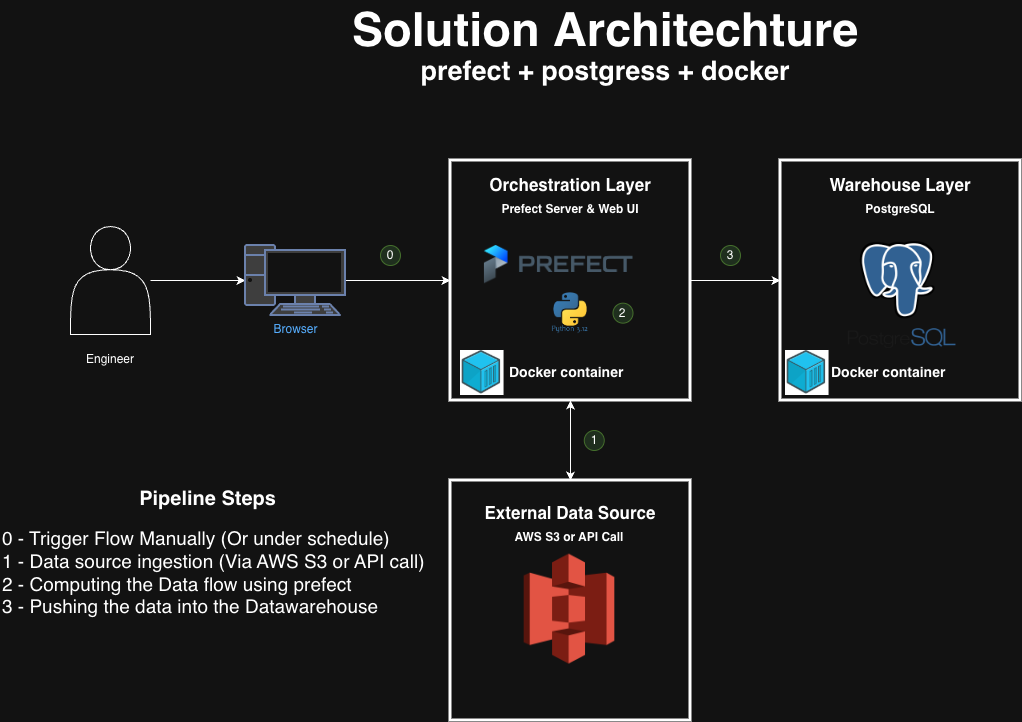
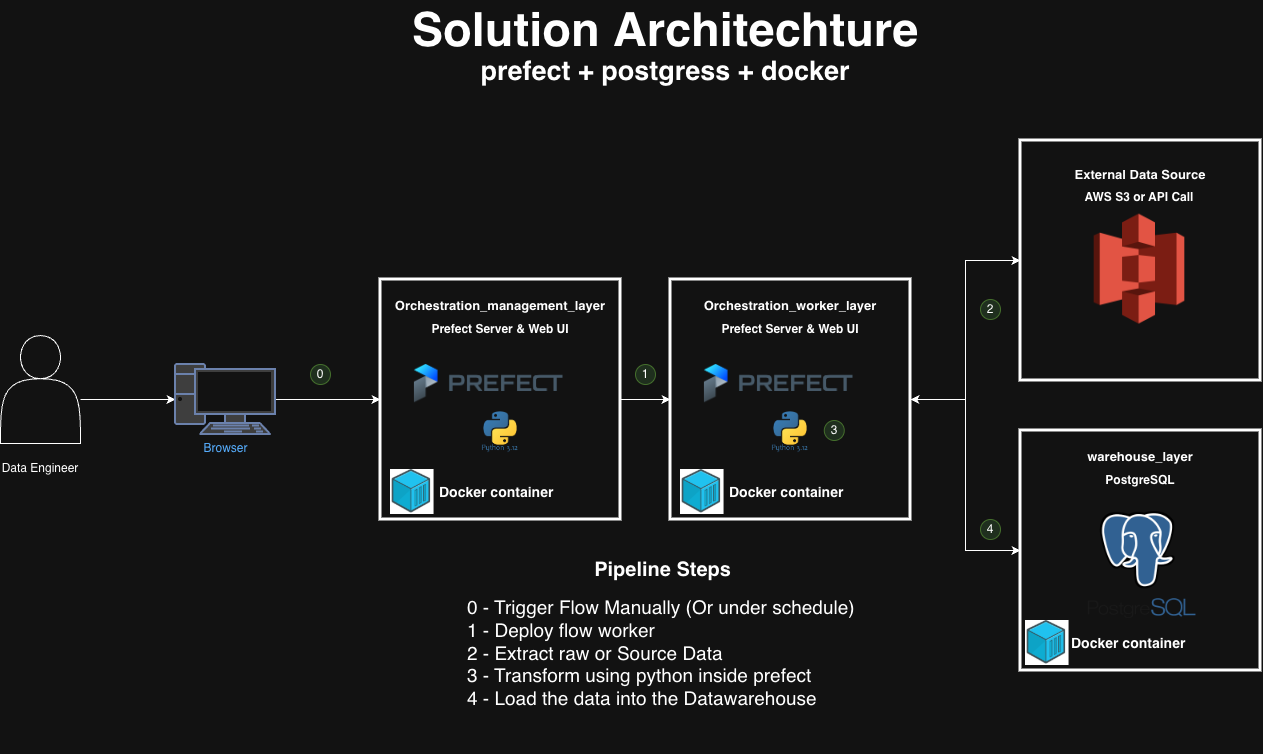
creating prefect worker layer

diff --git a/flows/ etl_flow.py b/flows/ etl_flow.py
@@ -1,5 +1,13 @@
 from prefect import flow
 
-@flow(name="etl_postgres_flow")
-def etl_postgres_flow():
-    ...
+@flow(name="etl_prefect_flow")
+def etl_prefect_flow():
+    print("Hello from the new flow!")
+
+if __name__ == "__main__":
+    etl_prefect_flow.deploy(
+        name="my-flow",
+        work_pool_name="default-process-pool",
+        build=False,
+        push=False,
+    )

diff --git a/README.md b/README.md
@@ -268,46 +268,78 @@ x-common-env: &common-env
     - .env
 ```
 
-## 🗄 Warehouse Layer – postgres-db
+You only need to maintain one .env file to control:
 
-Role in the architecture:
+- DB names, users, passwords.
+- Prefect API URLs.
+
+Port mappings per environment.
+
+This keeps infra changes low-risk and easy to roll back.
+
+### 🗄 Warehouse Layer – postgres-db
+
+Role in the architecture
 
 - Acts as the data warehouse layer.
-- On first startup:
-  - Initializes the main DB (warehouse_db).
-- Runs init-etl-user.sh to create a restricted ETL user and grant the right privileges.
-Uses a named Docker volume (postgres_data) so data persists across container restarts.
+ - On first startup:
+    - Initializes the main DB: warehouse_db.
+    - Runs init-etl-user.sh to create a restricted ETL user and grant the right privileges.
+- Uses a named Docker volume (postgres_data) so data persists across container restarts.
 
-Why this is modular/replicable:
+Why this matters for the business?
+- A single source of truth for analytics and reporting.
+- Clear separation between admin and ETL users reduces the credentials leaks.
+- Versioned and reproducible: you can spin up identical environments for testing or demo purposes.
 
+Why this is modular/replicable
 - You can swap postgres:16 to another supported version with zero changes in the application code.
 - By adjusting only .env, you can:
-- Change DB names/users/passwords.
-- Run multiple isolated environments (e.g. warehouse_db_dev, warehouse_db_test).
+  - Change DB names/users/passwords.
+  - Run multiple isolated environments (e.g. warehouse_db_dev, warehouse_db_test) from the exact same compose file.
 
-### ⚙ Orchestration Layer – prefect
+### ⚙ Orchestration Layer – prefect (Server & UI)
 
-Role in the architecture:
+Role in the architecture
 
 - Runs the Prefect 3 server and UI.
 - Orchestrates all your flows found in ./flows (mounted into /opt/prefect/flows).
 - Connects to Postgres using the ETL user credentials (ETL_DB_USER / ETL_DB_PASSWORD).
-- 🔎 Note: Inside Docker, the Prefect container typically reaches Postgres via the service name (e.g. postgres-db) on the default network. The compose file is already structured to make that easy to adjust via env vars.
+- Inside Docker, the Prefect services reach Postgres and each other using Docker service names, configured via environment variables.
 
-Why this is modular/replicable:
+Why this matters for the business
 
-- You can add new flows (DAGs) in flows/ and they become available to Prefect without touching the infra.
+- Central view on data pipelines health (success, failures, SLAs).
+- Faster incident response: ops/data teams can see logs, retries, and failures in one place.
+- Low-friction onboarding: new engineers just write flows and register them; they don’t need to understand the entire infrastructure.
+
+Why this is modular/replicable
+
+- Add new flows (DAGs) in flows/ and they become available to Prefect without touching the infra.
 - You can add more containers for agents, workers, or separate “compute” services, and have them all talk to the same Prefect API and warehouse.
 
-#### 📊 Managing DAGs in the Prefect Web UI
+🧵 Execution Layer – prefect-worker
+
+Role in the architecture
+- Runs a Prefect worker connected to the Prefect server.
+- Picks up work from the configured pool (default-process-pool) and executes flows from ./flows.
+
+This separation of control plane (server + UI) and data plane (worker) lets you:
+- Scale workers independently.
+- Point workers to different execution environments (e.g. larger machines, Kubernetes, etc.) without redesigning the rest of the stack.
+
+### 📊 Managing DAGs in the Prefect Web UI
 
 Once the stack is up:
-- The Prefect UI is exposed at: http://localhost:4200
+
+- Prefect UI: http://localhost:4200
 - From the UI you can:
   - See registered flows from flows/.
   - Configure schedules, parameters, and deployments.
   - Monitor runs, logs, and failures.
   - Pause/Resume or rerun flows as needed.
+
 This mirrors a production setup where:
-- Developers define flows in code.
-- Ops/Data teams manage and monitor those flows via the Prefect UI.
+  - Developers define flows in code.
+  - Ops/Data teams manage and monitor those flows via the Prefect UI.
+  - Stakeholders get transparent visibility into data pipeline reliability.
